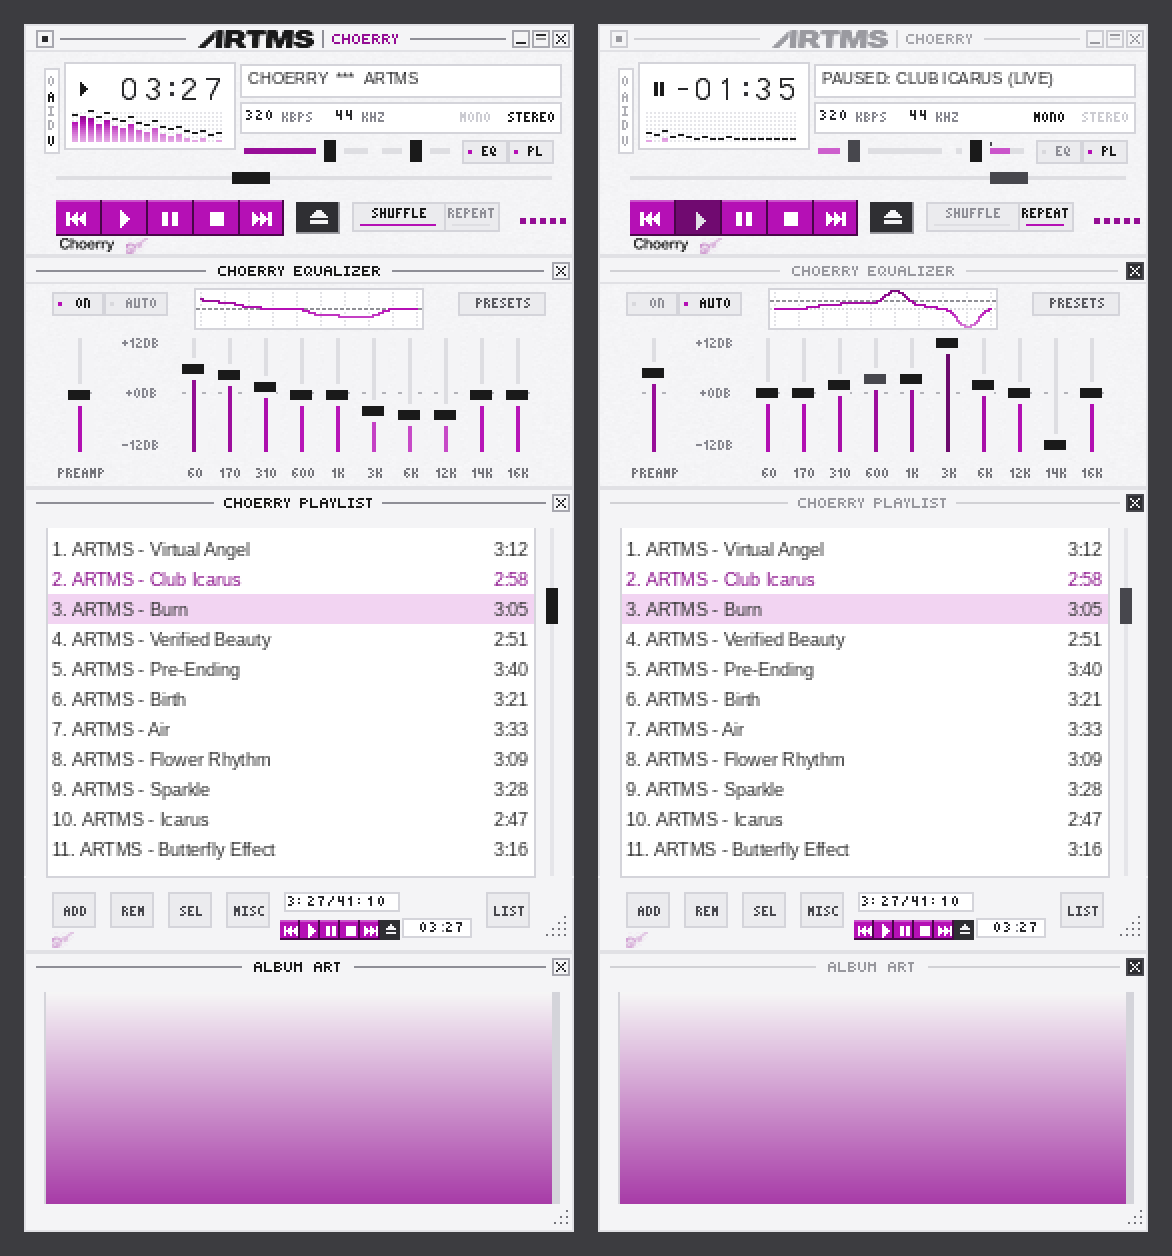
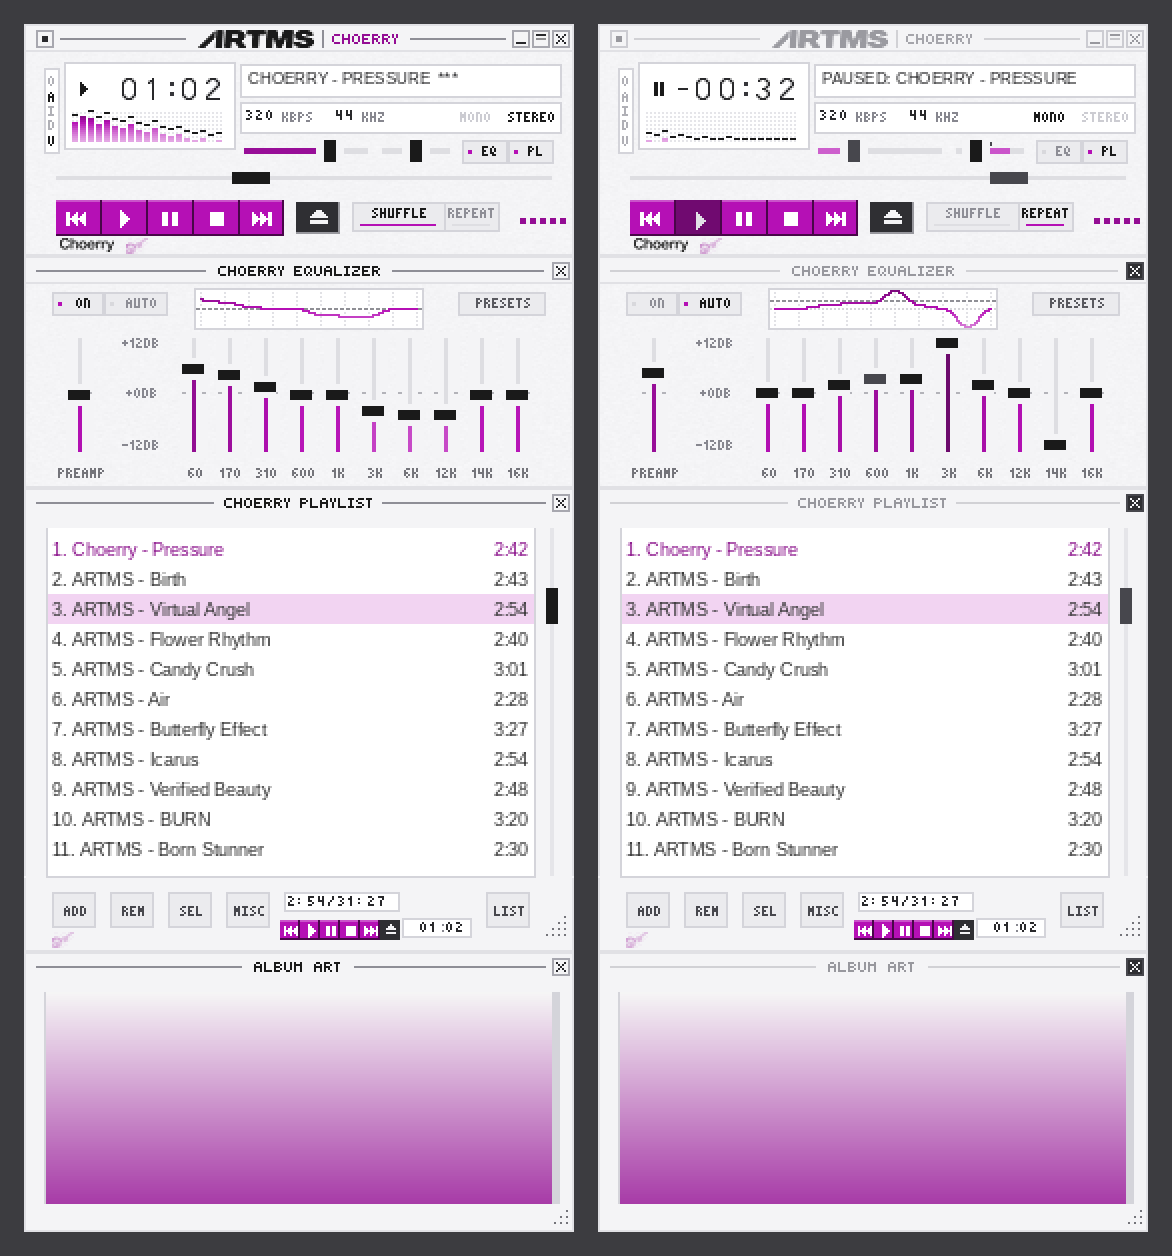
Sync ARTMS previews: main previews use real ARTMS songs, member previews play each member's solo

diff --git a/skins/kpop/artms/gen_skin.py b/skins/kpop/artms/gen_skin.py
@@ -1707,7 +1707,7 @@ def preview_eq(lit, state):
     return img
 
 
-def preview_playlist(lit, w, h, rows, pressed_close=False, drag=False):
+def preview_playlist(lit, w, h, rows, pressed_close=False, drag=False, elapsed=207, current=1):
     S = SHEETS
     sheet = S["pledit"]
     img = Image.new("RGB", (w, h))
@@ -1743,12 +1743,23 @@ def preview_playlist(lit, w, h, rows, pressed_close=False, drag=False):
             break
         if i == 2:
             d.rectangle((lx, y, lx + lw - 1, y + 14), fill=c["SelectedBG"])
-        col = c["Current"] if i == 1 else c["Normal"]
-        d.text((lx + 2, y + 2), f"{i + 1}. {txt}", fill=col, font=font)
+        col = c["Current"] if i == current else c["Normal"]
+        # a title too long for the row is cut short of the duration, as Winamp does
+        label, room = f"{i + 1}. {txt}", lw - 10 - d.textlength(dur, font=font)
+        if d.textlength(label, font=font) > room:
+            while d.textlength(label + "...", font=font) > room:
+                label = label[:-1]
+            label = label.rstrip() + "..."
+        d.text((lx + 2, y + 2), label, fill=col, font=font)
         d.text((lx + lw - 3 - d.textlength(dur, font=font), y + 2), dur, fill=col, font=font)
     blit(img, sheet, (61 if drag else 52, 53, 8, 18), w - 15, 20 + 30)
-    draw_bitmap_text(img, "3:27/41:10", w - 150 + 7, h - 38 + 10)
-    for dx, ch in zip([1, 7, 12, 20, 25], " 0327"):
+    # the footer: the selected row's length / the whole list's, and the elapsed time
+    def secs(t):
+        m, s_ = t.split(":")
+        return int(m) * 60 + int(s_)
+    total = sum(secs(dur) for _, dur in rows)
+    draw_bitmap_text(img, f"{rows[2][1]}/{total // 60}:{total % 60:02d}", w - 150 + 7, h - 38 + 10)
+    for dx, ch in zip([1, 7, 12, 20, 25], f" {elapsed // 60:02d}{elapsed % 60:02d}"):
         draw_bitmap_text(img, ch, w - 150 + 66 + dx, h - 38 + 23)
     return img
 
@@ -1827,21 +1838,37 @@ def preview_gen(lit, w, h, title, pressed_close=False):
     return img
 
 
+# each member's ARTMS-era solo (MODHAUS), with the length YouTube Music lists
+SOLOS = {"heejin": ("Algorithm", "3:09"), "haseul": ("Plastic Candy", "3:35"),
+         "kimlip": ("Can You Entertain?", "2:49"), "jinsoul": ("Ring of Chaos", "2:42"),
+         "choerry": ("Pressure", "2:42")}
+
+
 def preview():
-    rows = [("ARTMS - Virtual Angel", "3:12"), ("ARTMS - Club Icarus", "2:58"),
-            ("ARTMS - Burn", "3:05"), ("ARTMS - Verified Beauty", "2:51"),
-            ("ARTMS - Pre-Ending", "3:40"), ("ARTMS - Birth", "3:21"),
-            ("ARTMS - Air", "3:33"), ("ARTMS - Flower Rhythm", "3:09"),
-            ("ARTMS - Sparkle", "3:28"), ("ARTMS - Icarus", "2:47"),
-            ("ARTMS - Butterfly Effect", "3:16")]
+    # real ARTMS songs from DALL (2024), Club Icarus (2025) and Hyper-Ego (2026), with the lengths
+    # YouTube Music lists; the group themes play Virtual Angel (row 2), each member's themes play
+    # one of her ARTMS-era solos, put first
+    rows = [("ARTMS - Birth", "2:43"), ("ARTMS - Virtual Angel", "2:54"), ("ARTMS - Flower Rhythm", "2:40"),
+            ("ARTMS - Candy Crush", "3:01"), ("ARTMS - Air", "2:28"), ("ARTMS - Butterfly Effect", "3:27"),
+            ("ARTMS - Icarus", "2:54"), ("ARTMS - Verified Beauty", "2:48"), ("ARTMS - BURN", "3:20"),
+            ("ARTMS - Born Stunner", "2:30"), ("ARTMS - Blue Blood", "2:27")]
     bars = [12, 15, 14, 11, 13, 10, 9, 11, 8, 7, 9, 6, 5, 6, 4, 3, 4, 2, 3]
-    title = "ARTMS - VIRTUAL ANGEL  ***" if T["member"] is None else f"{T['readme_who'].upper()}  ***  ARTMS"
+    current = 1
+    if T["member"] is not None:
+        rows = [(f"{T['readme_who']} - {SOLOS[T['member']][0]}", SOLOS[T["member"]][1])] + rows[:10]
+        current = 0
+    song = rows[current][0]
+    title = f"{song.upper()}  ***"
+    # the timers follow it: elapsed at the seek bar's 0.38, remaining at its 0.8
+    m, s_ = rows[current][1].split(":")
+    length = int(m) * 60 + int(s_)
+    played, left = round(length * 0.38), length - round(length * 0.8)
     A = dict(pressed=None, eq=True, pl=True, clutter="AV", shuffle=True, repeat=False, playing=True, stereo=True,
-             pos=0.38, seek=False, volume=72, vdrag=False, balance=0, time=207, remaining=False,
+             pos=0.38, seek=False, volume=72, vdrag=False, balance=0, time=played, remaining=False,
              title=title, bars=bars)
     B = dict(pressed="play", eq=False, pl=True, clutter="", shuffle=False, repeat=True, playing=False, stereo=False,
-             pos=0.8, seek=True, volume=25, vdrag=True, balance=-60, time=95, remaining=True,
-             title="PAUSED: CLUB ICARUS (LIVE)", bars=[3, 2, 4, 1, 2, 1, 0, 1, 0, 0, 1, 0, 0, 0, 0, 0, 0, 0, 0])
+             pos=0.8, seek=True, volume=25, vdrag=True, balance=-60, time=left, remaining=True,
+             title=f"PAUSED: {song.upper()}", bars=[3, 2, 4, 1, 2, 1, 0, 1, 0, 0, 1, 0, 0, 0, 0, 0, 0, 0, 0])
     EA = dict(pressed=None, on=True, auto=False, preamp=50, drag=None,
               bands=[75, 68, 56, 49, 49, 33, 30, 30, 49, 49])
     EB = dict(pressed="close", on=False, auto=True, preamp=70, drag=3,
@@ -1852,7 +1879,8 @@ def preview():
         col = Image.new("RGB", (275, h))
         col.paste(preview_main(lit, st), (0, 0))
         col.paste(preview_eq(lit, est), (0, 116))
-        col.paste(preview_playlist(lit, 275, 232, rows, pressed_close=not lit, drag=not lit), (0, 232))
+        col.paste(preview_playlist(lit, 275, 232, rows, pressed_close=not lit, drag=not lit, elapsed=played,
+                                     current=current), (0, 232))
         col.paste(preview_gen(lit, 275, 140, "album art", pressed_close=not lit), (0, 464))
         cols.append(col)
     gap = 12
